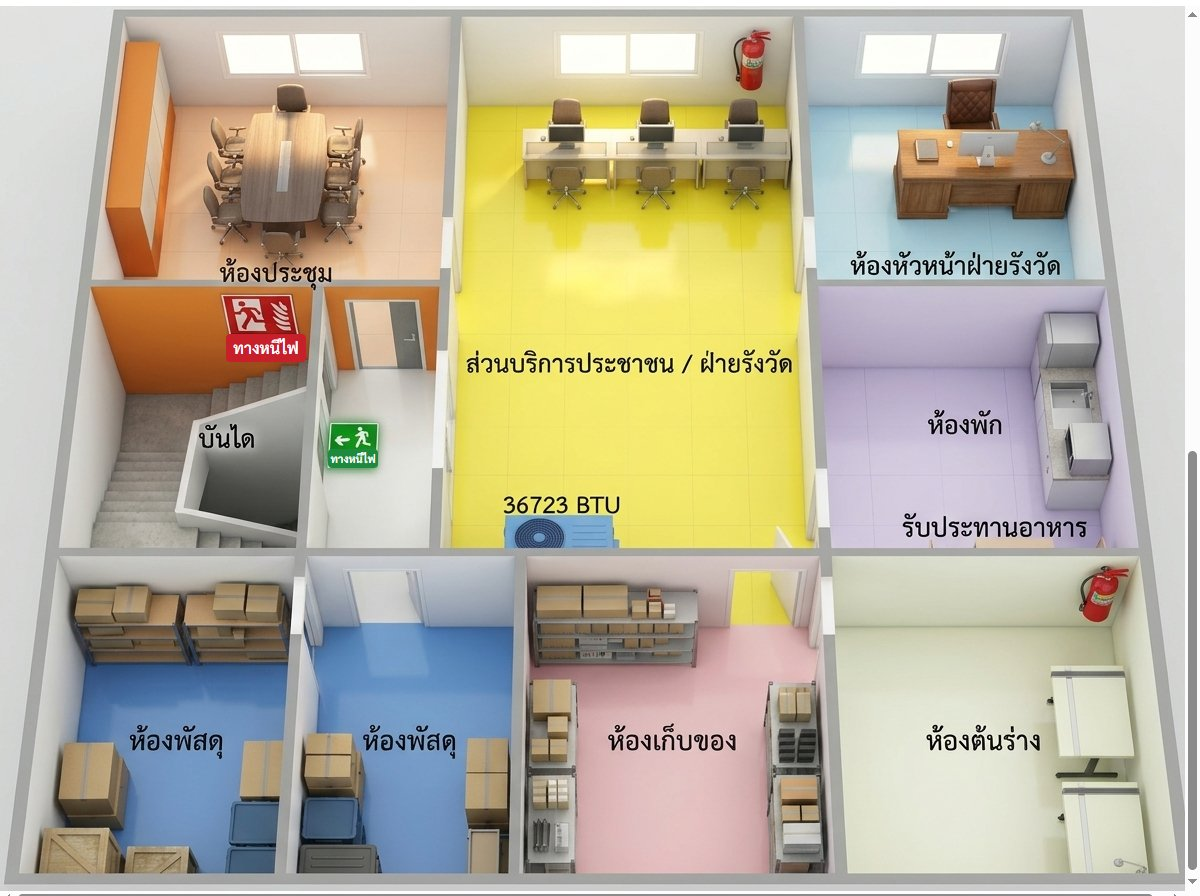
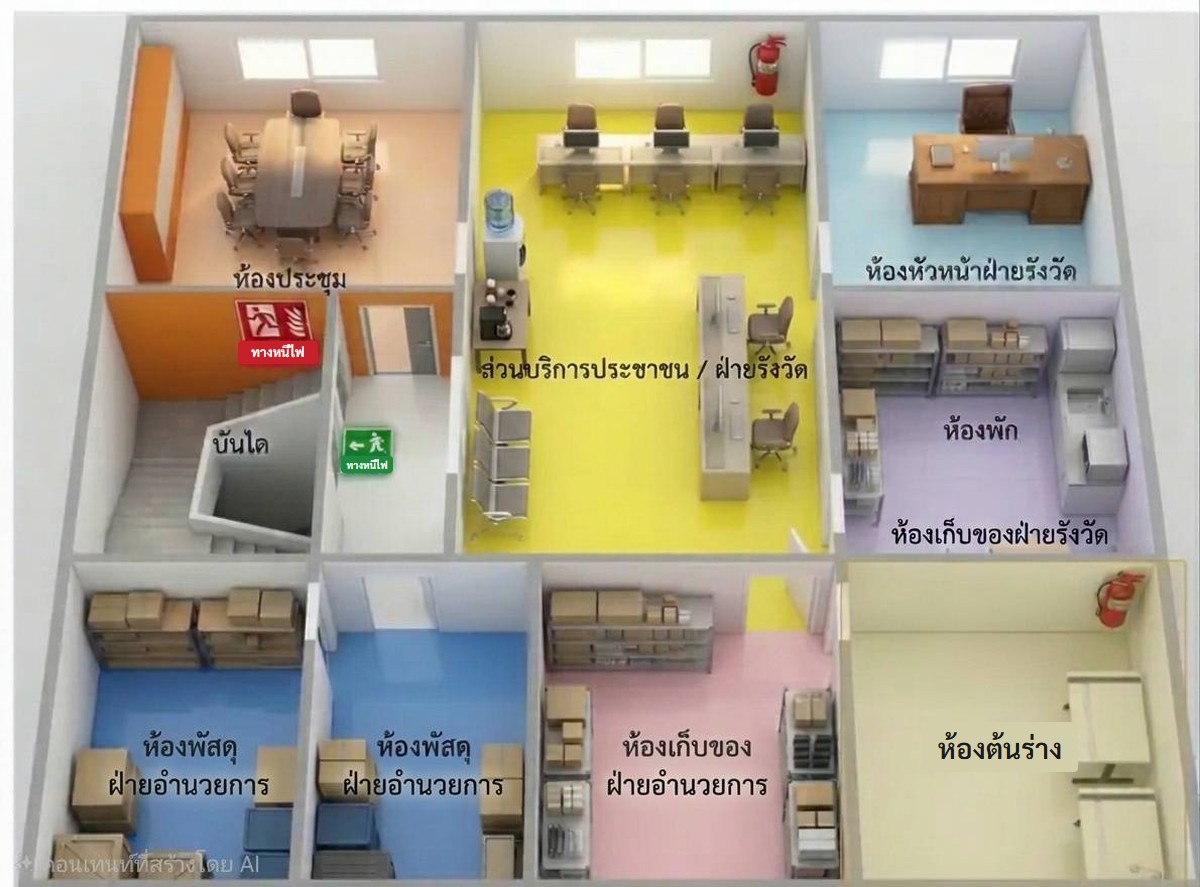
ผังชั้น 2 รุ่นใหม่ (แก้ ห้องต้นร่าง · ป้ายทางหนีไฟ) + จุดชั้น 2 ใหม่ · ชั้น 1 เพิ่มหมุดทางออกหนีไฟ 2

diff --git a/tools/make_sample.py b/tools/make_sample.py
@@ -30,7 +30,8 @@ FLOORS = {
         ("", "คอมพิวเตอร์สืบค้นข้อมูล", 350, 130, 165, 110, "สืบค้นข้อมูลด้วยตนเอง", True),
         ("", "จุดติดต่อเจ้าหน้าที่ช่วยเหลือ", 680, 140, 100, 90, "ติดต่อเจ้าหน้าที่เมื่อต้องการความช่วยเหลือ", True),
         ("", "จุดบริการน้ำดื่ม / กาแฟฟรี", 782, 135, 160, 95, "", True),
-        ("", "ทางออกหนีไฟ", 940, 128, 135, 118, "ทางออกฉุกเฉิน มุ่งหน้าไปจุดรวมพล", True),
+        ("", "ทางออกหนีไฟ 1", 940, 128, 135, 118, "ทางออกฉุกเฉิน มุ่งหน้าไปจุดรวมพล", True),
+        ("", "ทางออกหนีไฟ 2", 572, 128, 100, 60, "ทางออกฉุกเฉิน ออกไปจุดรวมพล", True),
         ("", "จุดรวมพล", 555, 0, 130, 110, "จุดรวมพลเมื่อเกิดเหตุฉุกเฉิน", True),
         ("", "จุดบริการ Drive Thru", 688, 30, 175, 68, "", True),
         ("", "ที่จอดรถผู้พิการ", 880, 10, 180, 110, "", True),
@@ -47,23 +48,24 @@ FLOORS = {
         ("", "ห้องจัดเก็บสารบบที่ดิน", 400, 640, 680, 170, "", False),
         ("", "ที่เก็บหลักเขต", 905, 850, 180, 100, "", False),
     ]),
-    "2": ("ชั้น 2 ฝ่ายอำนวยการ", "assets/hc-floor-2.jpg?v=2", (1200, 896), [
+    "2": ("ชั้น 2 ฝ่ายอำนวยการ", "assets/hc-floor-2.jpg?v=3", (1200, 887), [
         "ยื่นเอกสาร/คำขอที่ได้จากฝ่ายทะเบียน", "ชี้ตำแหน่ง/นัดรังวัด", "ชำระค่าธรรมเนียม ห้องการเงินชั้น 1",
         "รับใบนัดรังวัด", "ช่างรังวัดออกทำการรังวัด", "ส่งเรื่องให้ฝ่ายทะเบียน", "ปรึกษา",
         "สแกน QR Code ประเมินความพึงพอใจ",
     ], [
-        ("1,4", "ส่วนบริการประชาชน / ฝ่ายรังวัด", 450, 280, 355, 265,
+        ("1,4", "ส่วนบริการประชาชน / ฝ่ายรังวัด", 460, 250, 370, 300,
          "ยื่นเอกสาร/คำขอที่ได้จากฝ่ายทะเบียน และรับใบนัดรังวัด", True),
-        ("2,5", "เจ้าหน้าที่รังวัด", 450, 20, 355, 255, "ชี้ตำแหน่ง/นัดรังวัด · ช่างรังวัดออกทำการรังวัด", True),
-        ("3,6", "บันได (ลงชั้น 1)", 60, 285, 385, 265,
+        ("2,5", "เจ้าหน้าที่รังวัด", 520, 95, 290, 150, "ชี้ตำแหน่ง/นัดรังวัด · ช่างรังวัดออกทำการรังวัด", True),
+        ("3,6", "บันได (ลงชั้น 1)", 105, 380, 215, 170,
          "ลงไปชำระค่าธรรมเนียมที่ห้องการเงินชั้น 1 · ส่งเรื่องให้ฝ่ายทะเบียน", True),
-        ("7", "ห้องหัวหน้าฝ่ายรังวัด", 810, 20, 330, 265, "ปรึกษา", True),
-        ("", "ห้องประชุม", 95, 15, 350, 270, "", True),
-        ("", "ห้องพัก", 815, 285, 325, 265, "รับประทานอาหาร", False),
-        ("", "ห้องพัสดุ 1", 40, 555, 260, 330, "", False),
-        ("", "ห้องพัสดุ 2", 300, 555, 215, 330, "", False),
-        ("", "ห้องเก็บของ", 515, 555, 305, 330, "", False),
-        ("", "ห้องต้นร่าง", 825, 555, 345, 330, "", False),
+        ("7", "ห้องหัวหน้าฝ่ายรังวัด", 820, 20, 290, 270, "ปรึกษา", True),
+        ("", "ห้องประชุม", 110, 20, 350, 270, "", True),
+        ("", "ทางหนีไฟ", 320, 295, 135, 255, "ทางหนีไฟชั้น 2", True),
+        ("", "ห้องพัก / ห้องเก็บของฝ่ายรังวัด", 830, 295, 320, 260, "", False),
+        ("", "ห้องพัสดุฝ่ายอำนวยการ 1", 50, 560, 255, 320, "", False),
+        ("", "ห้องพัสดุฝ่ายอำนวยการ 2", 305, 560, 232, 320, "", False),
+        ("", "ห้องเก็บของฝ่ายอำนวยการ", 540, 560, 296, 320, "", False),
+        ("", "ห้องต้นร่าง", 840, 560, 330, 320, "", False),
     ]),
 }
 

diff --git a/tools/fix_text.py b/tools/fix_text.py
@@ -39,9 +39,10 @@ PATCHES = {
         (486, 896, 284, 32, "ที่จอดรถยนต์ผู้รับบริการ", 17, "#1b1b1b", "#b0b2b2"),
         (0, 802, 124, 40, "ห้องน้ำภายนอก<br>ชาย / หญิง", 13, "#ffffff", "#2f5fa8"),
     ],
-    "2": [
-        (226, 334, 80, 28, "ทางหนีไฟ", 16, "#ffffff", "#c8202a"),
-        (328, 449, 50, 19, "ทางหนีไฟ", 11, "#ffffff", "#1f8a3d"),
+    "2": [  # ภาพชั้น 2 (tools/hc-floor-2-src.png): ผังที่ Likit ส่งมา 2026-11-24 ขยายกว้าง 1200 px → 1200×887
+        (922, 722, 156, 50, "ห้องต้นร่าง", 28, "#1b1b1b", None),
+        (238, 341, 80, 23, "ทางหนีไฟ", 13, "#ffffff", "#c8202a"),
+        (341, 456, 52, 17, "ทางหนีไฟ", 10, "#ffffff", "#1f8a3d"),
     ],
 }
 
